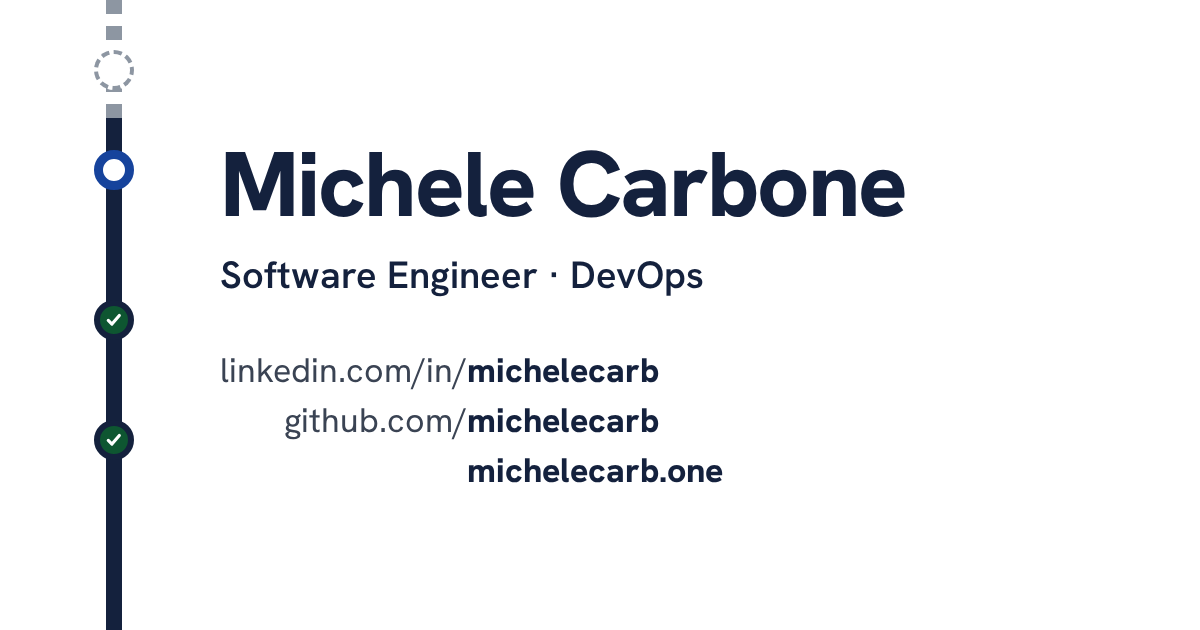
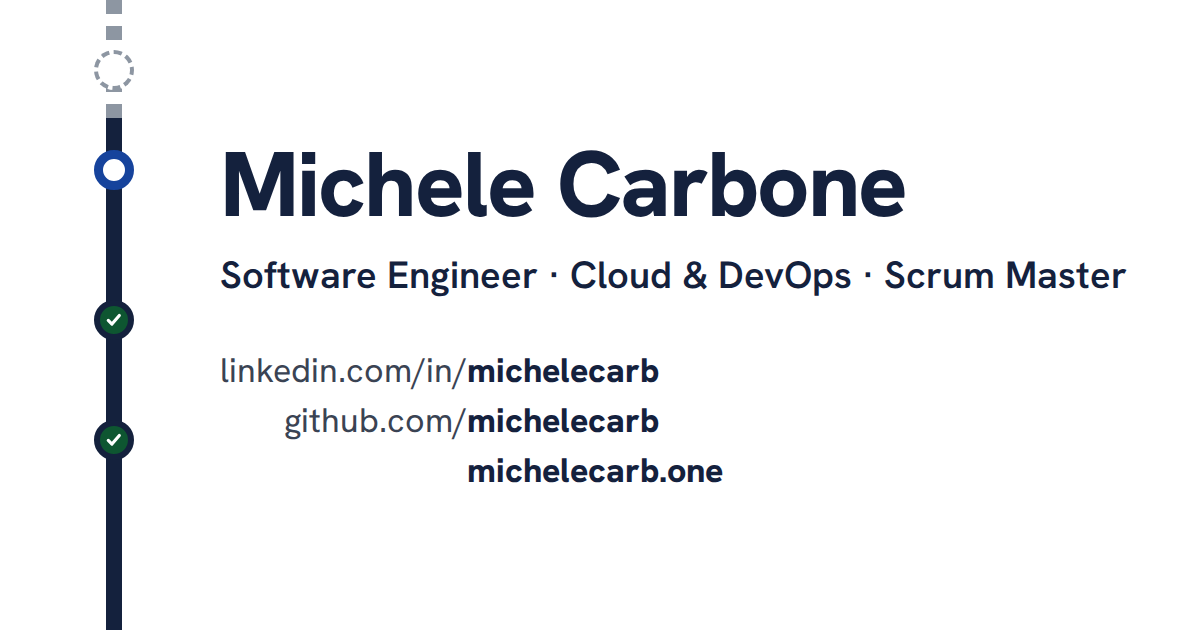
feat: lead the masthead with the current role and key results
Headline "Software Engineer · Cloud & DevOps · Scrum Master", a RUNNING line
naming the current employer, the two owner-chosen results, no CV placeholder
until the PDF exists, and the Amadeus Scrum Master / Product Owner periods.

diff --git a/tests/e2e/shell.spec.ts b/tests/e2e/shell.spec.ts
@@ -11,7 +11,11 @@ const pages = [
       linkedin: "LinkedIn: linkedin.com/in/michelecarb",
       github: "GitHub: github.com/michelecarb",
       website: "Website: michelecarb.one",
-      cvSoon: "CV (PDF): coming soon",
+    },
+    masthead: {
+      now: "Amadeus IT Group · Consultant via Groupe SII · since Feb 2023",
+      factsLabel: "Key results",
+      facts: [/more than 200k€\/year \(over 20%\)/, /150k TPS/],
     },
   },
   {
@@ -22,32 +26,51 @@ const pages = [
       linkedin: "LinkedIn: linkedin.com/in/michelecarb",
       github: "GitHub: github.com/michelecarb",
       website: "Sito web: michelecarb.one",
-      cvSoon: "CV (PDF): in arrivo",
+    },
+    masthead: {
+      now: "Amadeus IT Group · Consulente tramite Groupe SII · da feb 2023",
+      factsLabel: "Risultati principali",
+      facts: [/oltre 200k€\/anno \(oltre il 20%\)/, /150k TPS/],
     },
   },
 ];
 
-for (const { path, other, links } of pages) {
+for (const { path, other, links, masthead } of pages) {
   test.describe(path, () => {
     test.beforeEach(async ({ page }) => {
       await page.goto(path);
     });
 
-    test("links to profiles and website, with the CV marked coming soon", async ({
+    test("names the current employer and key results on a phone's first screen", async ({
       page,
     }) => {
+      await page.setViewportSize({ width: 360, height: 800 });
+      const now = page.locator("[data-now]");
+      await expect(now).toContainText(/RUNNING\s*\(/);
+      await expect(now).toContainText(masthead.now);
+      const facts = page.getByRole("list", { name: masthead.factsLabel });
+      await expect(facts.getByRole("listitem")).toHaveText(masthead.facts);
+      for (const part of [now, facts]) {
+        const box = (await part.boundingBox())!;
+        expect(box.y + box.height).toBeLessThanOrEqual(800);
+      }
+    });
+
+    test("links to profiles and website, with no CV line until the PDF exists", async ({
+      page,
+    }) => {
+      const banner = page.getByRole("banner");
       await expect(
-        page.getByRole("link", { name: links.linkedin }),
+        banner.getByRole("link", { name: links.linkedin }),
       ).toHaveAttribute("href", "https://www.linkedin.com/in/michelecarb");
       await expect(
-        page.getByRole("link", { name: links.github }),
+        banner.getByRole("link", { name: links.github }),
       ).toHaveAttribute("href", "https://github.com/MicheleCarb");
       await expect(
-        page.getByRole("link", { name: links.website }),
+        banner.getByRole("link", { name: links.website }),
       ).toHaveAttribute("href", "https://michelecarb.one");
       // TODO(cv): once the PDF exists, expect a download link instead.
-      await expect(page.getByText(links.cvSoon)).toBeVisible();
-      await expect(page.getByRole("link", { name: /CV/ })).toHaveCount(0);
+      await expect(page.getByText(/CV/)).toHaveCount(0);
     });
 
     test("switches to the other language", async ({ page }) => {
@@ -91,7 +114,7 @@ for (const { path, other, links } of pages) {
         /\S/,
       );
       await expect(page).toHaveTitle(
-        "Michele Carbone · Software Engineer · DevOps",
+        "Michele Carbone · Software Engineer · Cloud & DevOps · Scrum Master",
       );
       await expect(head.locator('meta[property="og:image"]')).toHaveAttribute(
         "content",

diff --git a/src/i18n/ui.ts b/src/i18n/ui.ts
@@ -13,7 +13,8 @@ const en = {
   "links.github": "GitHub",
   "links.website": "Website",
   "links.cv": "Download CV (PDF)",
-  "links.cvSoon": "CV (PDF): coming soon",
+  "now.since": "since",
+  "facts.label": "Key results",
   "intro.heading": "About",
   "pipeline.heading": "Career pipeline",
   "pipeline.parallel": "Parallel stages",
@@ -42,7 +43,8 @@ const it: UIStrings = {
   "links.github": "GitHub",
   "links.website": "Sito web",
   "links.cv": "Scarica il CV (PDF)",
-  "links.cvSoon": "CV (PDF): in arrivo",
+  "now.since": "da",
+  "facts.label": "Risultati principali",
   "intro.heading": "Profilo",
   "pipeline.heading": "Pipeline di carriera",
   "pipeline.parallel": "Fasi in parallelo",

diff --git a/tests/e2e/pipeline.spec.ts b/tests/e2e/pipeline.spec.ts
@@ -43,7 +43,7 @@ test.describe("career pipeline (English)", () => {
   test("shows the current role first with an open end", async ({ page }) => {
     const current = pipeline(page).locator('[aria-current="step"]');
     await expect(current.getByRole("heading", { level: 4 }).first()).toHaveText(
-      "Software Engineer · DevOps · Team Contributor",
+      "Software Engineer · DevOps · Scrum Master",
     );
     await expect(current.getByText(/Dec 2024 – Present/)).toBeVisible();
   });

diff --git a/src/content.config.ts b/src/content.config.ts
@@ -10,6 +10,7 @@ const profile = defineCollection({
     handle: z.string().min(1),
     headline: z.string().min(1),
     location: localized,
+    keyFacts: z.array(localized),
     intro: localized,
     links: z.object({
       linkedin: z.url(),

diff --git a/README.md b/README.md
@@ -52,7 +52,7 @@ Until the custom domain is attached, the default `github.io` address shows the p
 
 ## Open items
 
-- **CV PDF** (`TODO(cv)`): add `public/cv/michele-carbone-cv.pdf`, set `links.cv` in `src/content/profile.yaml`, and remove the `test.fixme` and the "coming soon" assertion in `tests/e2e/shell.spec.ts`. Until then the site shows "CV (PDF): coming soon".
+- **CV PDF** (`TODO(cv)`): add `public/cv/michele-carbone-cv.pdf`, set `links.cv` in `src/content/profile.yaml`, and remove the `test.fixme` and the "no CV line" assertion in `tests/e2e/shell.spec.ts`. Until then the site shows no CV line.
 
 ## Documentation
 
